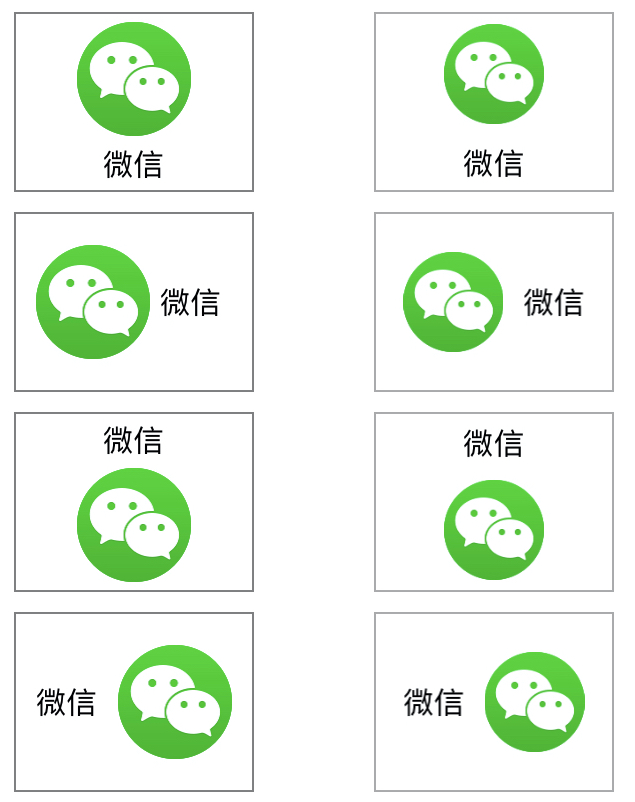
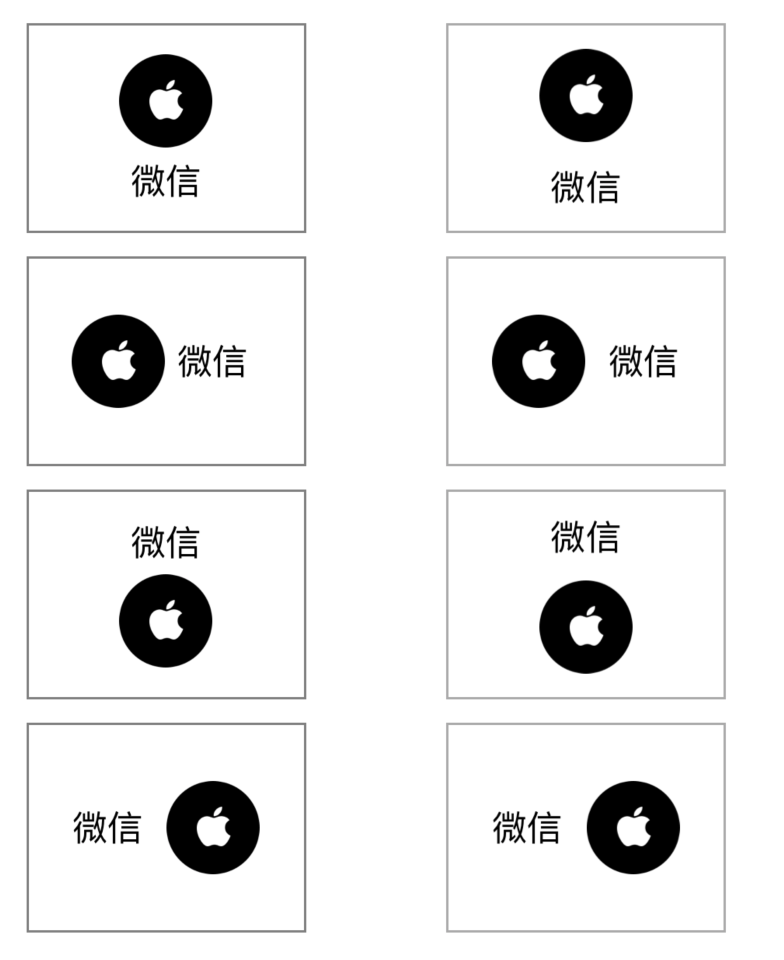
update

diff --git a/MZButton/MZButton/UIButton+MZImageTitle.swift b/MZButton/MZButton/UIButton+MZImageTitle.swift
@@ -24,30 +24,30 @@ extension UIButton {
     ///   - imageTitleSpace: 按钮图标+文字间隔
     public func layoutButtonWithEdgeInsets(style: MZButtonEdgeInsetsStyle, imageTitleSpace: CGFloat) {
         // 1.得到imageView和titleLabel的宽、高
-        let imageWith: CGFloat = self.imageView?.frame.size.width ?? 0.0
+        let imageWidth: CGFloat = self.imageView?.frame.size.width ?? 0.0
         let imageHeight: CGFloat = self.imageView?.frame.size.height ?? 0.0
-        let labelWidth: CGFloat = self.titleLabel?.intrinsicContentSize.width ?? 0.0
-        let labelHeight: CGFloat = self.titleLabel?.intrinsicContentSize.height ?? 0.0
+        let titleWidth: CGFloat = self.titleLabel?.intrinsicContentSize.width ?? 0.0
+        let titleHeight: CGFloat = self.titleLabel?.intrinsicContentSize.height ?? 0.0
         // 2.声明全局的imageEdgeInsets和labelEdgeInsets
         var imageEdgeInsets: UIEdgeInsets = .zero
-        var labelEdgeInsets: UIEdgeInsets = .zero
+        var titleEdgeInsets: UIEdgeInsets = .zero
         // 3.根据style和space得到imageEdgeInsets和labelEdgeInsets的值
         switch style {
         case .top:
-            imageEdgeInsets = UIEdgeInsets(top: -labelHeight - imageTitleSpace * 0.5, left: 0, bottom: 0, right: -labelWidth)
-            labelEdgeInsets = UIEdgeInsets(top: 0, left: -imageWith, bottom: -imageHeight - imageTitleSpace * 0.5, right: 0)
+            imageEdgeInsets = UIEdgeInsets(top: -titleHeight - imageTitleSpace * 0.5, left: 0, bottom: 0, right: -titleWidth)
+            titleEdgeInsets = UIEdgeInsets(top: 0, left: -imageWidth, bottom: -imageHeight - imageTitleSpace * 0.5, right: 0)
         case .left:
             imageEdgeInsets = UIEdgeInsets(top: 0, left: -imageTitleSpace * 0.5, bottom: 0, right: imageTitleSpace * 0.5)
-            labelEdgeInsets = UIEdgeInsets(top: 0, left: imageTitleSpace * 0.5, bottom: 0, right: imageTitleSpace * 0.5)
+            titleEdgeInsets = UIEdgeInsets(top: 0, left: imageTitleSpace * 0.5, bottom: 0, right: imageTitleSpace * 0.5)
         case .bottom:
-            imageEdgeInsets = UIEdgeInsets(top: 0, left: 0, bottom: -labelHeight - imageTitleSpace * 0.5, right: -labelWidth)
-            labelEdgeInsets = UIEdgeInsets(top: -imageHeight - imageTitleSpace * 0.5, left: -imageWith, bottom: 0, right: 0)
+            imageEdgeInsets = UIEdgeInsets(top: 0, left: 0, bottom: -titleHeight - imageTitleSpace * 0.5, right: -titleWidth)
+            titleEdgeInsets = UIEdgeInsets(top: -imageHeight - imageTitleSpace * 0.5, left: -imageWidth, bottom: 0, right: 0)
         case .right:
-            imageEdgeInsets = UIEdgeInsets(top: 0, left: labelWidth + imageTitleSpace * 0.5, bottom: 0, right: -labelWidth - imageTitleSpace * 0.5)
-            labelEdgeInsets = UIEdgeInsets(top: 0, left: -imageWith - imageTitleSpace * 0.5, bottom: 0, right: imageWith + imageTitleSpace * 0.5)
+            imageEdgeInsets = UIEdgeInsets(top: 0, left: titleWidth + imageTitleSpace * 0.5, bottom: 0, right: -titleWidth - imageTitleSpace * 0.5)
+            titleEdgeInsets = UIEdgeInsets(top: 0, left: -imageWidth - imageTitleSpace * 0.5, bottom: 0, right: imageWidth + imageTitleSpace * 0.5)
         }
         // 4.赋值
-        self.titleEdgeInsets = labelEdgeInsets
         self.imageEdgeInsets = imageEdgeInsets
+        self.titleEdgeInsets = titleEdgeInsets
     }
 }

diff --git a/MZButton/ViewController.swift b/MZButton/ViewController.swift
@@ -23,23 +23,24 @@ class ViewController: UIViewController {
             button1.setTitle("微信", for: .normal)
             button1.setTitleColor(UIColor.black, for: .normal)
             button1.titleLabel?.font = UIFont.systemFont(ofSize: 15)
-            button1.setImage(UIImage(named: "icon_wechat"), for: .normal)
-            button1.setImage(UIImage(named: "icon_wechat"), for: .highlighted)
+            button1.setImage(UIImage(named: "icon_login_apple"), for: .normal)
+            button1.setImage(UIImage(named: "icon_login_apple"), for: .highlighted)
             button1.layoutButtonWithEdgeInsets(style: MZButtonEdgeInsetsStyle(rawValue: i) ?? .top, imageTitleSpace: 10)
             button1.layer.borderColor = UIColor.gray.cgColor
             button1.layer.borderWidth = 1
             button1.layer.masksToBounds = true
             self.view.addSubview(button1)
+            
             // 方式二(继承)
             let button2: MZButton = MZButton(type: .custom)
             button2.frame = CGRect(x: 200, y: 100 + 100 * i, width: 120, height: 90)
             button2.setTitle("微信", for: .normal)
             button2.setTitleColor(UIColor.black, for: .normal)
             button2.titleLabel?.font = UIFont.systemFont(ofSize: 15)
-            button2.setImage(UIImage(named: "icon_wechat"), for: .normal)
-            button2.setImage(UIImage(named: "icon_wechat"), for: .highlighted)
+            button2.setImage(UIImage(named: "icon_login_apple"), for: .normal)
+            button2.setImage(UIImage(named: "icon_login_apple"), for: .highlighted)
             button2.buttonEdgeInsetsType = MZButtonEdgeInsetsType(rawValue: i) ?? .top
-            button2.imageSize = CGSize(width: 50, height: 50)
+            button2.imageSize = CGSize(width: 40, height: 40)
             button2.spacing = 10
             button2.layer.borderColor = UIColor.lightGray.cgColor
             button2.layer.borderWidth = 1

diff --git a/README.md b/README.md
@@ -3,9 +3,11 @@
 
 效果图：
 
-![image](https://github.com/MrZhou1010/MZButton/blob/master/demo.png)
+![image](https://github.com/MrZhou1010/MZButton/raw/master/demo.png)
 
 实现：
+
+    注：使用自动布局的页面需要layoutSubviews方法中设置
 
 方式一：分类
 
@@ -15,8 +17,8 @@
       button1.setTitle("微信", for: .normal)
       button1.setTitleColor(UIColor.black, for: .normal)
       button1.titleLabel?.font = UIFont.systemFont(ofSize: 15)
-      button1.setImage(UIImage(named: "icon_wechat"), for: .normal)
-      button1.setImage(UIImage(named: "icon_wechat"), for: .highlighted)
+      button1.setImage(UIImage(named: "icon_login_apple"), for: .normal)
+      button1.setImage(UIImage(named: "icon_login_apple"), for: .highlighted)
       button1.layoutButtonWithEdgeInsets(style: MZButtonEdgeInsetsStyle(rawValue: i) ?? .top, imageTitleSpace: 10)
       button1.layer.borderColor = UIColor.gray.cgColor
       button1.layer.borderWidth = 1
@@ -32,11 +34,11 @@
       button2.setTitle("微信", for: .normal)
       button2.setTitleColor(UIColor.black, for: .normal)
       button2.titleLabel?.font = UIFont.systemFont(ofSize: 15)
-      button2.setImage(UIImage(named: "icon_wechat"), for: .normal)
-      button2.setImage(UIImage(named: "icon_wechat"), for: .highlighted)
+      button2.setImage(UIImage(named: "icon_login_apple"), for: .normal)
+      button2.setImage(UIImage(named: "icon_login_apple"), for: .highlighted)
       button2.buttonEdgeInsetsType = MZButtonEdgeInsetsType(rawValue: i) ?? .top
-      button2.imageSize = CGSize(width: 50,height: 50)
-      button2.spacing = 5
+      button2.imageSize = CGSize(width: 40, height: 40)
+      button2.spacing = 10
       button2.layer.borderColor = UIColor.lightGray.cgColor
       button2.layer.borderWidth = 1
       button2.layer.masksToBounds = true
